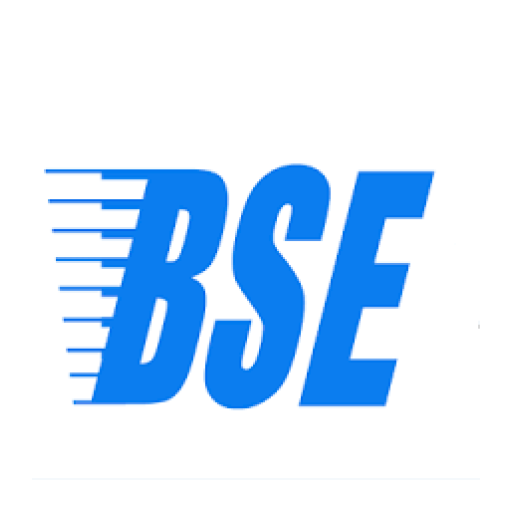
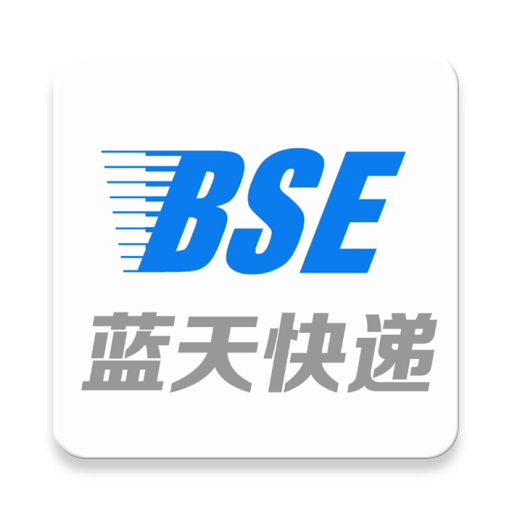
优化图标，界面

Changed region(s): [[0.0938, 0.1562, 0.9062, 0.9375]]

diff --git a/app/src/main/java/com/example/mark/scan/MainActivity2.java b/app/src/main/java/com/example/mark/scan/MainActivity2.java
@@ -1,5 +1,6 @@
 package com.example.mark.scan;
 
+import android.app.ActionBar;
 import android.app.Activity;
 import android.app.AlertDialog;
 import android.content.DialogInterface;
@@ -49,6 +50,10 @@ public class MainActivity2 extends AppCompatActivity {
         setContentView(R.layout.activity_main2);
         GridView gridview = (GridView) findViewById(R.id.grid1);
 
+        //getSupportActionBar().setDisplayOptions(ActionBar.DISPLAY_SHOW_CUSTOM);
+        //getSupportActionBar().setCustomView(R.layout.abs_layout);
+
+
         gridview.setAdapter(new ImageAdapter(this));
        // gridview.setAdapter();
         gridview.setOnItemClickListener(new AdapterView.OnItemClickListener() {
@@ -59,18 +64,26 @@ public class MainActivity2 extends AppCompatActivity {
                             case 0:
                                 Url="http://express.giantpost.com.au/q?s=";
                                 Courier="giant"; //捷安达快递
+                                Toast.makeText(MainActivity2.this, "" + "捷安达快递",
+                                Toast.LENGTH_SHORT).show();
                                 break;
                             case 1:
                                 Url="http://www.blueskyexpress.com.au/cgi-bin/GInfo.dll?EmmisTrack";
                                 Courier="blue"; //蓝天快递
+                                Toast.makeText(MainActivity2.this, "" + "蓝天快递",
+                                        Toast.LENGTH_SHORT).show();
                                 break;
                             case 2:
                                 Url="http://120.25.248.148/cgi-bin/GInfo.dll?EmmisTrack";
                                 Courier="emms";//顺丰快递
+                                Toast.makeText(MainActivity2.this, "" + "顺丰快递",
+                                        Toast.LENGTH_SHORT).show();
                                 break;
                             case 3:
                                 Url="http://www.polarexpress.com.au/track?num=";
                                 Courier="polar"; //极地速递
+                                Toast.makeText(MainActivity2.this, "" + "极地速递",
+                                        Toast.LENGTH_SHORT).show();
                                 break;
                         }
 
@@ -87,8 +100,8 @@ public class MainActivity2 extends AppCompatActivity {
 
 
 
-                Toast.makeText(MainActivity2.this, "" + position,
-                        Toast.LENGTH_SHORT).show();
+                //Toast.makeText(MainActivity2.this, "" + position,
+                        //Toast.LENGTH_SHORT).show();
 
                 Intent intent = new Intent(MainActivity2.this, MainActivity.class);
                 /* 通过Bundle对象存储需要传递的数据 */

diff --git a/app/src/main/java/com/example/mark/scan/MainActivity.java b/app/src/main/java/com/example/mark/scan/MainActivity.java
@@ -17,6 +17,7 @@ import android.view.MenuItem;
 import android.view.View;
 import android.webkit.WebView;
 import android.widget.Button;
+import android.widget.ImageButton;
 import android.widget.TextView;
 import android.app.ProgressDialog;
 import android.webkit.WebViewClient;
@@ -83,7 +84,7 @@ public class MainActivity extends AppCompatActivity {
         //alertDialog.show();
 
 
-        Button htmlTitleButton = (Button)findViewById(R.id.button4);
+        ImageButton htmlTitleButton = (ImageButton)findViewById(R.id.button4);
 
         htmlTitleButton.setOnClickListener(new View.OnClickListener() {
             @Override

diff --git a/app/src/main/java/com/example/mark/scan/ImageAdapter.java b/app/src/main/java/com/example/mark/scan/ImageAdapter.java
@@ -50,7 +50,7 @@ public class ImageAdapter  extends BaseAdapter {
 
     // references to our images
     private Integer[] mThumbIds = {
-            R.mipmap.jie , R.mipmap.lantian , R.mipmap.shunfeng,R.mipmap.jidi
+            R.mipmap.jieanda , R.mipmap.lantian , R.mipmap.shunfen,R.mipmap.jidi
             //R.drawable.sample_4, R.drawable.sample_5,
             //R.drawable.sample_6, R.drawable.sample_7,
             //R.drawable.sample_0, R.drawable.sample_1,
